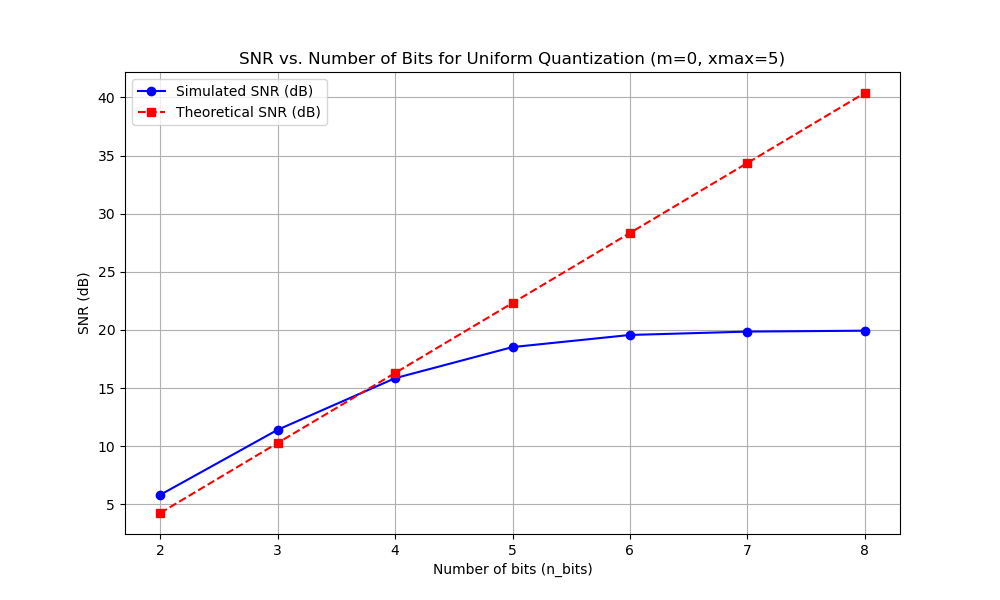
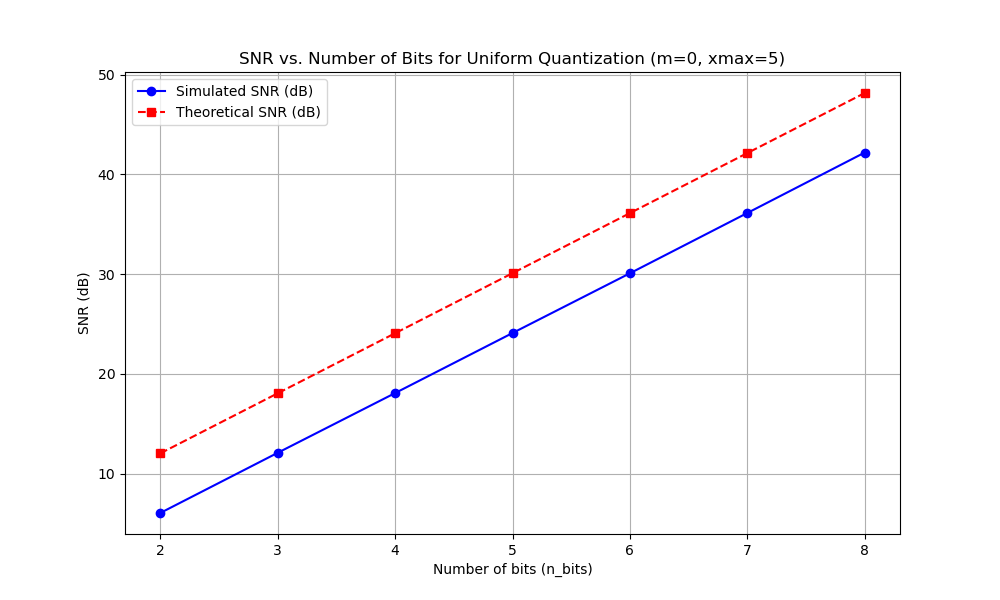
new changes

diff --git a/assignment_one/testing.py b/assignment_one/testing.py
@@ -28,6 +28,7 @@ def deterministic_test():
     ax2.plot(x, q_ind_m0, label='Quantization Indices (m=0)',
              color='green', alpha=0.6)
     ax2.set_ylabel('Quantization Index')
+    ax2.set_yticks(np.arange(min(q_ind_m0), max(q_ind_m0) + 1, 1))  # Integer quantization indices
 
     lines, labels = ax.get_legend_handles_labels()
     lines2, labels2 = ax2.get_legend_handles_labels()
@@ -76,7 +77,7 @@ def random_test():
         snr_simulation_db = 10 * np.log10(input_power / error_power)
         snr_sim_db.append(snr_simulation_db)
         delta = (2 * x_max) / pow(2, n)
-        error_power = (delta ** 2) / 2
+        error_power = (delta ** 2) / 12
         snr_theoritical_db = 10 * np.log10(input_power / error_power)
         snr_theory_db.append(snr_theoritical_db)
     plt.figure(figsize=(10, 6))
@@ -118,42 +119,53 @@ def random_nonuniform_test():
 
 
 def random_nonuniform_with_compression():
+    # Generate non-uniform random variables
     signs = np.random.choice([-1, 1], size=10000)
     magnitudes = np.random.exponential(scale=1, size=10000)
     non_uniform_random_variables = signs * magnitudes
-    x_max = 5
+
+    # Normalization step (before compression)
+    x_max = np.max(np.abs(non_uniform_random_variables))  
+    normalized_signal = non_uniform_random_variables / x_max  # Now in range [-1,1]
+
     n_bits_values = np.arange(2, 9)
     mu_values = [0, 5, 100, 200]
     SNR_mu = np.zeros((len(n_bits_values), len(mu_values)))
+
     for j, m in enumerate(mu_values):
         for i, n in enumerate(n_bits_values):
-            expanded_signal = signs * expand(
-                np.abs(non_uniform_random_variables), m) if m != 0 else non_uniform_random_variables
-            q_sample = uniform_quantizer(
-                expanded_signal, n, x_max, 0)
-            deq_sample = uniform_dequantizer(q_sample, n, 5, 0)
-            compressed_signal = signs * compress(
-                np.abs(deq_sample), m) if m != 0 else deq_sample
-            error_power = np.mean(
-                (non_uniform_random_variables - compressed_signal) ** 2)
+            # Expand (if mu > 0)
+            expanded_signal = signs * expand(np.abs(normalized_signal), m) if m != 0 else normalized_signal  
+            
+            # Quantization
+            q_sample = uniform_quantizer(expanded_signal, n, 1, 0)  # Adjusted x_max to 1
+            deq_sample = uniform_dequantizer(q_sample, n, 1, 0)  # Adjusted x_max to 1
+
+            # Compress (if mu > 0)
+            compressed_signal = signs * compress(np.abs(deq_sample), m) if m != 0 else deq_sample
+
+            # Denormalization step (after expansion)
+            final_signal = compressed_signal * x_max  # Scale back to original range
+
+            # Compute error and SNR
+            error_power = np.mean((non_uniform_random_variables - final_signal) ** 2)
             input_power = np.mean(non_uniform_random_variables ** 2)
-            snr_simulation_db = (input_power / error_power)
+            snr_simulation_db = 10 * np.log10(input_power / error_power)
             SNR_mu[i][j] = snr_simulation_db
 
+    # Plot SNR vs n_bits
     plt.figure()
     markers = ['bo-', 'r*-', 'gs-', 'kd-']
     for j, mu in enumerate(mu_values):
-        plt.plot(n_bits_values, 10 *
-                 np.log10(SNR_mu[:, j]), markers[j], label=f'μ={mu}')
+        plt.plot(n_bits_values, SNR_mu[:, j], markers[j], label=f'μ={mu}')
     plt.xlabel('n_bits')
     plt.ylabel('SNR (dB)')
     plt.title('SNR vs n_bits for μ-law Quantization (Non-uniform Input)')
     plt.legend()
-
     plt.show()
 
 
-# deterministic_test()
-# random_test()
-# random_nonuniform_test()
+deterministic_test()
+random_test()
+random_nonuniform_test()
 random_nonuniform_with_compression()

diff --git a/assignment_one/processing.py b/assignment_one/processing.py
@@ -17,7 +17,18 @@ def uniform_quantizer(in_val: np.ndarray, n: int, x_max: float, m: int) -> np.nd
     L = pow(2, n)
     delta = 2 * x_max / L
     offset = m * delta / 2
-    quantized_values = np.round((in_val - offset) // delta)
+    
+    # return quantized_values
+        # Clip input to range [-x_max, x_max] to avoid overflow
+    in_val = np.clip(in_val, -x_max, x_max)
+    quantized_values =  np.floor((in_val - offset) / delta).astype(int)
+    # # Compute quantized index (floor for midrise, round for midtread)
+    # if m == 0:  # Midrise
+    #     q_ind = np.floor((in_val - offset) / delta)
+    # else:  # Midtread
+    #     q_ind = np.round((in_val - offset) / delta)
+
+
     return quantized_values
 
 
@@ -37,7 +48,8 @@ def uniform_dequantizer(q_val: np.ndarray, n: int, x_max: float, m: int) -> np.n
     L = pow(2, n)
     delta = 2 * x_max / L
     offset = m * delta / 2
-    org_values = np.round(q_val * delta + offset)
+    org_values = q_val * delta + offset
+
     org_values = np.clip(org_values, -x_max, x_max)
     return org_values
 
@@ -52,9 +64,10 @@ def expand(signal: np.ndarray, m: float):
     Returns:
         np.ndarray: compressed signal
     """
-    return (np.log10(1 + m * signal) / np.log10(1 + m))
+    return (((1 + m) ** np.abs(signal)) - 1) / m
 
-
+# (((1 + m) ** np.abs(signal)) - 1) / m
+# (np.log(1 + m * signal) / np.log(1 + m))
 def compress(signal: np.ndarray, m: float):
     """
     Compress signal back
@@ -65,4 +78,4 @@ def compress(signal: np.ndarray, m: float):
     Returns:
         np.ndarray: compressed signal
     """
-    return (((1 + m) ** signal) - 1) / m
+    return  (np.log(1 + m * np.abs(signal)) / np.log(1 + m))
